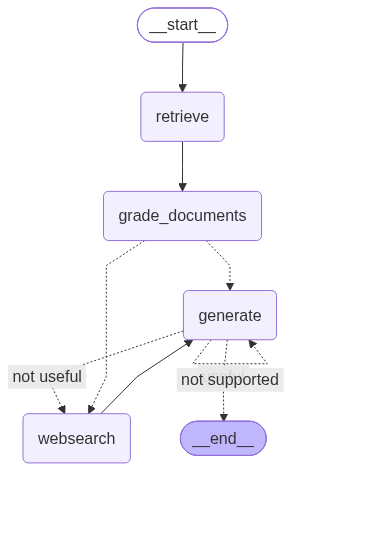
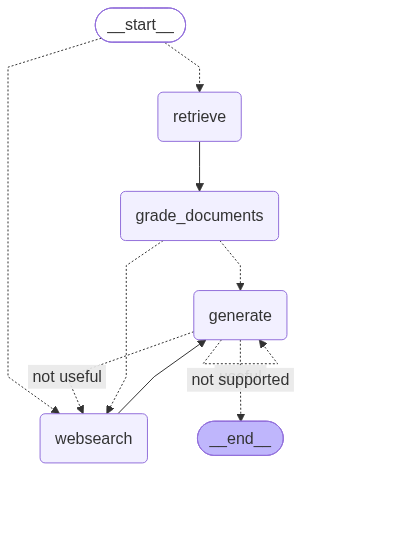
Implemented Adaptive rag

diff --git a/graph/graph.py b/graph/graph.py
@@ -1,6 +1,7 @@
 from dotenv import load_dotenv
 from graph.chains.answer_grader import answer_grader
 from graph.chains.hallucination_grader import hallucination_grader
+from graph.chains.router import question_router
 from graph.consts import GENERATE, GRADE_DOCUMENTS, RETRIEVE, WEBSEARCH
 from graph.nodes import generate, grade_documents, retrieve, web_search
 from graph.state import GraphState
@@ -9,7 +10,7 @@ from langgraph.graph import END, StateGraph
 load_dotenv()
 
 
-def decide_to_generate(state):
+def decide_to_generate(state: GraphState):
     print("---ASSESS GRADED DOCUMENTS---")
 
     if state["web_search"]:
@@ -53,6 +54,20 @@ def grade_generation_grounded_in_documents_and_question(state: GraphState) -> st
         return "not supported"
 
 
+def route_question(state: GraphState) -> str:
+    print("---ROUTE QUESTION---")
+    question = state["question"]
+
+    source = question_router.invoke({"question": question})
+
+    if source.datasource == "websearch":
+        print("---ROUTE QUESTION TO WEB SEARCH---")
+        return WEBSEARCH
+    elif source.datasource == "vectorstore":
+        print("---ROUTE QUESTION TO RAG---")
+        return RETRIEVE
+
+
 workflow = StateGraph(GraphState)
 
 workflow.add_node(RETRIEVE, retrieve)
@@ -60,7 +75,10 @@ workflow.add_node(GRADE_DOCUMENTS, grade_documents)
 workflow.add_node(GENERATE, generate)
 workflow.add_node(WEBSEARCH, web_search)
 
-workflow.set_entry_point(RETRIEVE)
+workflow.set_conditional_entry_point(
+    route_question, {WEBSEARCH: WEBSEARCH, RETRIEVE: RETRIEVE}
+)
+
 workflow.add_edge(RETRIEVE, GRADE_DOCUMENTS)
 
 workflow.add_conditional_edges(

diff --git a/graph/chains/router.py b/graph/chains/router.py
@@ -1,0 +1,30 @@
+from typing import Literal
+
+from dotenv import load_dotenv
+from langchain_core.prompts import ChatPromptTemplate
+from langchain_google_genai import ChatGoogleGenerativeAI
+from pydantic import BaseModel, Field
+
+load_dotenv()
+
+llm = ChatGoogleGenerativeAI(model="gemini-3.1-flash-lite")
+
+
+class RouteQuery(BaseModel):
+    """Route a user query to the most relevant datasource."""
+
+    datasource: Literal["vectorstore", "websearch"] = Field(
+        ...,
+        description="Given a user question choose to route it to web search or a vectorstore.",
+    )
+
+
+structured_llm_router = llm.with_structured_output(RouteQuery)
+
+system = """You are an expert at routing a user question to a vectorstore or web search.
+The vectorstore contains documents related to agents, prompt engineering, and adversarial attacks.
+Use the vectorstore for questions on these topics. For all else, use web-search."""
+
+route_prompt = ChatPromptTemplate([("system", system), ("human", "{question}")])
+
+question_router = route_prompt | structured_llm_router

diff --git a/graph/nodes/web_search.py b/graph/nodes/web_search.py
@@ -13,7 +13,7 @@ web_search_tool = TavilySearch(max_results=3)
 def web_search(state: GraphState) -> dict[str, Any]:
     print("---WEB SEARCH---")
     question = state["question"]
-    documents = state["documents"]
+    documents = state.get("documents", None)
 
     tavily_searchs = web_search_tool.invoke({"query": question})["results"]
 

diff --git a/main.py b/main.py
@@ -6,5 +6,5 @@ from graph.graph import app
 
 if __name__ == "__main__":
     print("Hello from agentic-rag!")
-    res = app.invoke({"question": "what is agent memory?"})
+    res = app.invoke({"question": "Tell me the latest space news."})
     print(res['generation'])
